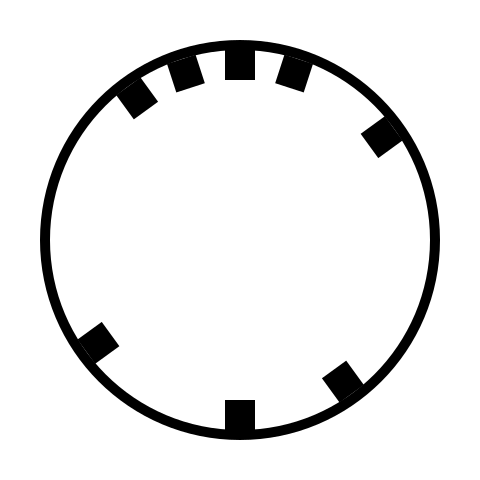
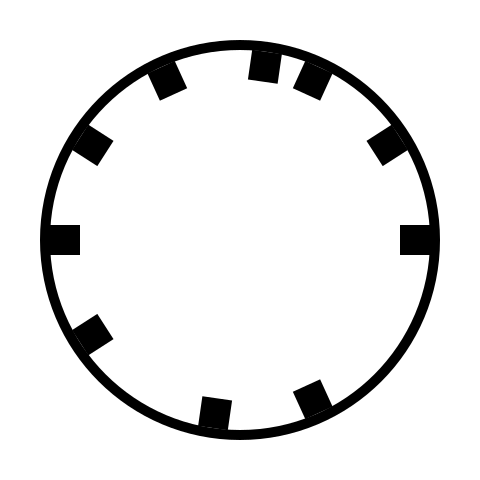
nice

diff --git a/web/lib/circle-code-marker.js b/web/lib/circle-code-marker.js
@@ -16,7 +16,7 @@ class CircleCodedMarker {
       for (let j = 0; j < codeLineAngles.length; ++j) {
         for (let k = j + 1; k < codeLineAngles.length; ++k) {
           const angleDiff = Math.abs(180 - Math.abs(codeLineAngles[j] - codeLineAngles[k]));
-          if (angleDiff < 10) {
+          if (angleDiff < 13) {
             numPowerCouples++;
           }
         }
@@ -43,11 +43,14 @@ class CircleCodedMarker {
       for (let j = 0; j < defects.rows; j++) {
         let start = new cv.Point(contour.data32S[defects.data32S[j * 4] * 2], contour.data32S[defects.data32S[j * 4] * 2 + 1]);
         let end = new cv.Point(contour.data32S[defects.data32S[j * 4 + 1] * 2], contour.data32S[defects.data32S[j * 4 + 1] * 2 + 1]);
-        const dist = distPoints(start, end);
+        const midPoint = {
+          x: (start.x + end.x) / 2,
+          y: (start.y + end.y) / 2
+        };
         let far = new cv.Point(contour.data32S[defects.data32S[j * 4 + 2] * 2], contour.data32S[defects.data32S[j * 4 + 2] * 2 + 1]);
-        let depth = defects.data32S[j * 4 + 3] / 256;
-        if (depth > dist * 0.25) {
-          defectPoints.push(far);
+        let depth = distPoints(midPoint, far);
+        if (depth > this.innerCircle.radius * 0.1) {
+          defectPoints.push(midPoint);
         }
       }
       // for each defect, find the angle from the center

diff --git a/generate.js b/generate.js
@@ -56,18 +56,18 @@ function generate(id) {
   }
 
   
-  let sum = id + 4;
+  let sum = id;
   
   let powerCouplesLocations = new Array(numPowerCouplesCodeLines).fill(0).map((_, i) => Math.floor(numCodeLines / numPowerCouplesCodeLines * (i + 1)));
   
   powerCouplesLocations.forEach((location) => {
-    if(sum >= 4){
+    if(sum > 4){
       code[location] = LINE_CODES_STYLES.POWER_COUPLE;
       sum -= 4;
     }
   });
 
-  let locations = new Array(numCodeLines).fill(0).map((_, i) => i).filter((i) => code[i] === LINE_CODES_STYLES.NONE);
+  let locations = new Array(numCodeLines - 1).fill(0).map((_, i) => i + 1).filter((i) => code[i] === LINE_CODES_STYLES.NONE);
   // pick random locations
   while (sum > 0) {
     const randomIndex = Math.floor(Math.random() * locations.length);
@@ -90,8 +90,11 @@ function generate(id) {
   }
 
 
+  drawCodeLine(0);
+  drawCodeLine(Math.PI);
+
   for (let i = 0; i < numCodeLines; i++) {
-    const angle = -Math.PI / numCodeLines * i;
+    const angle = -Math.PI / (numCodeLines + 1) * i;
     
     if (code[i] === LINE_CODES_STYLES.POWER_COUPLE) {
       console.log("POWER COUPLE");

diff --git a/server.js b/server.js
@@ -1,12 +1,17 @@
-const express = require('express');
-const path = require('path');
+import express from 'express';
+import path from 'path';
+import { fileURLToPath } from 'url';
+import { dirname } from 'path';
 
 const app = express();
 const port = 3000;
 
+const __filename = fileURLToPath(import.meta.url);
+const __dirname = dirname(__filename);
+
 // Serve the static file recognize.html
 app.get('/', (req, res) => {
-    res.sendFile(path.join(__dirname, 'web', 'recognize.html'));
+  res.sendFile(path.join(__dirname, 'web', 'recognize.html'));
 });
 
 // Serve the static folder images
@@ -14,5 +19,5 @@ app.use('/images', express.static(path.join(__dirname, 'images')));
 app.use('/', express.static(path.join(__dirname, 'web')));
 
 app.listen(port, () => {
-    console.log(`Server is running on http://localhost:${port}`);
+  console.log(`Server is running on http://localhost:${port}`);
 });

diff --git a/web/lib/circle-code-recognizer.js b/web/lib/circle-code-recognizer.js
@@ -13,11 +13,15 @@ function getCircleFromContour(contour) {
   }
 
   const approx = contour;
-  // cv.approxPolyDP(contour, approx, 0.005 * cv.arcLength(contour, true), true);
+  cv.approxPolyDP(contour, approx, 0.005 * cv.arcLength(contour, true), true);
 
   const rect = cv.boundingRect(approx);
   const center = { x: rect.x + rect.width / 2, y: rect.y + rect.height / 2 };
   const { radius } = cv.minEnclosingCircle(approx);
+  const deltaRectFromCircle = Math.abs(rect.width / 2 - radius) + Math.abs(rect.height / 2 - radius);
+  if (deltaRectFromCircle > 10) {
+    return false;
+  }
   let maxImperfectionDelta = 0;
   let maxImperfection = 0;
 
@@ -74,6 +78,7 @@ class CircleCodeRecognizer {
       }
     }
 
+    this.circles = circles;
 
     return circles;
   }

diff --git a/web/recognize.js b/web/recognize.js
@@ -6,6 +6,8 @@ canvas.width = window.innerWidth;
 canvas.height = window.innerHeight;
 
 const ctx = canvas.getContext('2d');
+ctx.fillStyle = 'black';
+ctx.fillRect(0, 0, canvas.width, canvas.height);
 
 const drawMarkerOnCanvas = async () => {
   const id = Math.floor(Math.random() * 16);
@@ -57,4 +59,8 @@ markers.forEach((marker) => {
   angles.forEach((angle) => {
     drawLine(marker.innerCircle.center, angle, marker.innerCircle.radius);
   });
+  ctx.fillStyle = 'black';
+  // draw the marker code
+  ctx.font = '20px Arial';
+  ctx.fillText(marker.code, marker.outerCircle.center.x, marker.outerCircle.center.y);
 });
